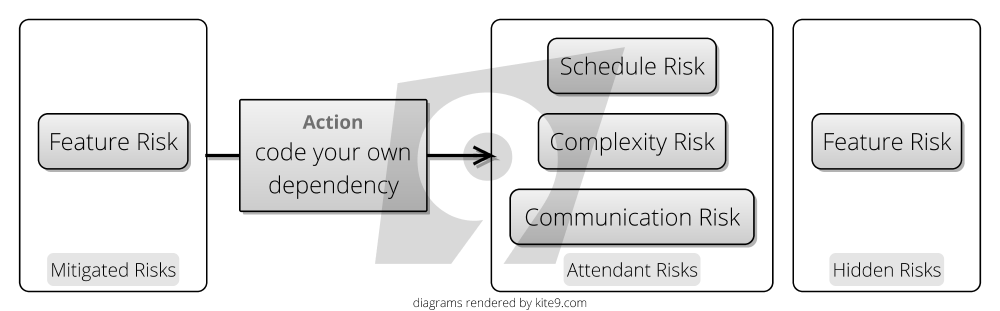
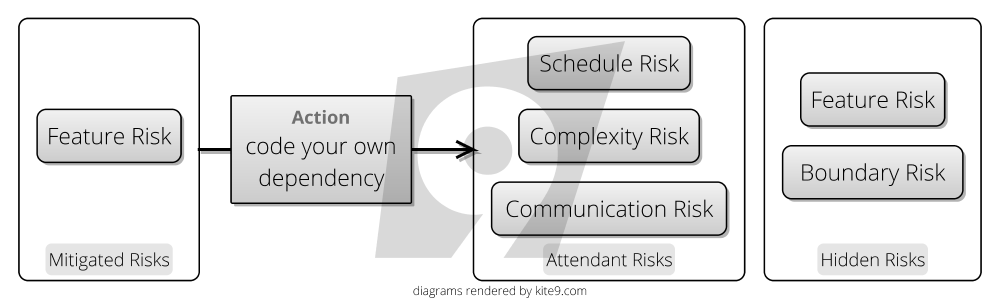
Software Dependency Risk

diff --git a/menagerie/Software-Dependency-Risk.md b/menagerie/Software-Dependency-Risk.md
@@ -103,7 +103,17 @@ All 3 approaches involve a different risk-profile.  Let's look at each in turn, 
 
 Initially, writing our own code was the only game in town:  when I started programming, you had a user guide, BASIC and that was pretty much it.  Tool support was very thin-on-the-ground.  Programs and libraries could be distributed as code snippets _in magazines_ which could be transcribed and run, and added to your program.  This spirit lives on somewhat in StackOverflow and JSFiddle, where you are expected to "adopt" others' code into your own project.  
 
-Even now, there's always the opportunity cost of depending on our own code, which may well be more appropriate and ergonomic for whatever is required.  
+One of the hidden risks of embarking on a code-your-own approach is that the features you need are _not_ apparent from the outset.  What might appear to be a trivial implementation of some piece of functionality can often turn into it's own industry as more and more hidden [Feature Risk](Feature-Risk) is uncovered.  
+
+For example, as we discussed in our earlier treatment of [Dead-End Risk](Complexity-Risk#dead-end-risk), building log-in screens _seemed like a good idea_.  However, this gets out-of-hand fast when you need:
+ - A password reset screen
+ - To email the reset links to the user
+ - An email verification screen
+ - A lost account screen
+ - Reminders to complete the sign up process
+ - ... and so on.
+
+![Code your own mitigates immediate feature risk, but at the expense of schedule risk, complexity risk and communication risk.  There is also a hidden risk of features you don't yet know you need.](images/kite9/software-dependency-code-your-own.png) 
 
 ### Unwritten Software
 
@@ -129,8 +139,6 @@ If the dependency is being written by another person, another team or in another
 In essence, this is [Conway's Law](https://en.wikipedia.org/wiki/Conway%27s_law):
 
 > "organizations which design systems ... are constrained to produce designs which are copies of the communication structures of these organizations." — [M. Conway, Conway's Law, _Wikipedia_](https://en.wikipedia.org/wiki/Conway%27s_law)
-
-![Code your own mitigates immediate feature risk, but at the expense of schedule risk, complexity risk and communication risk.  There is also a hidden risk of features you don't yet know you need.](images/kite9/software-dependency-code-your-own.png) 
 
 ## Software Libraries
 
